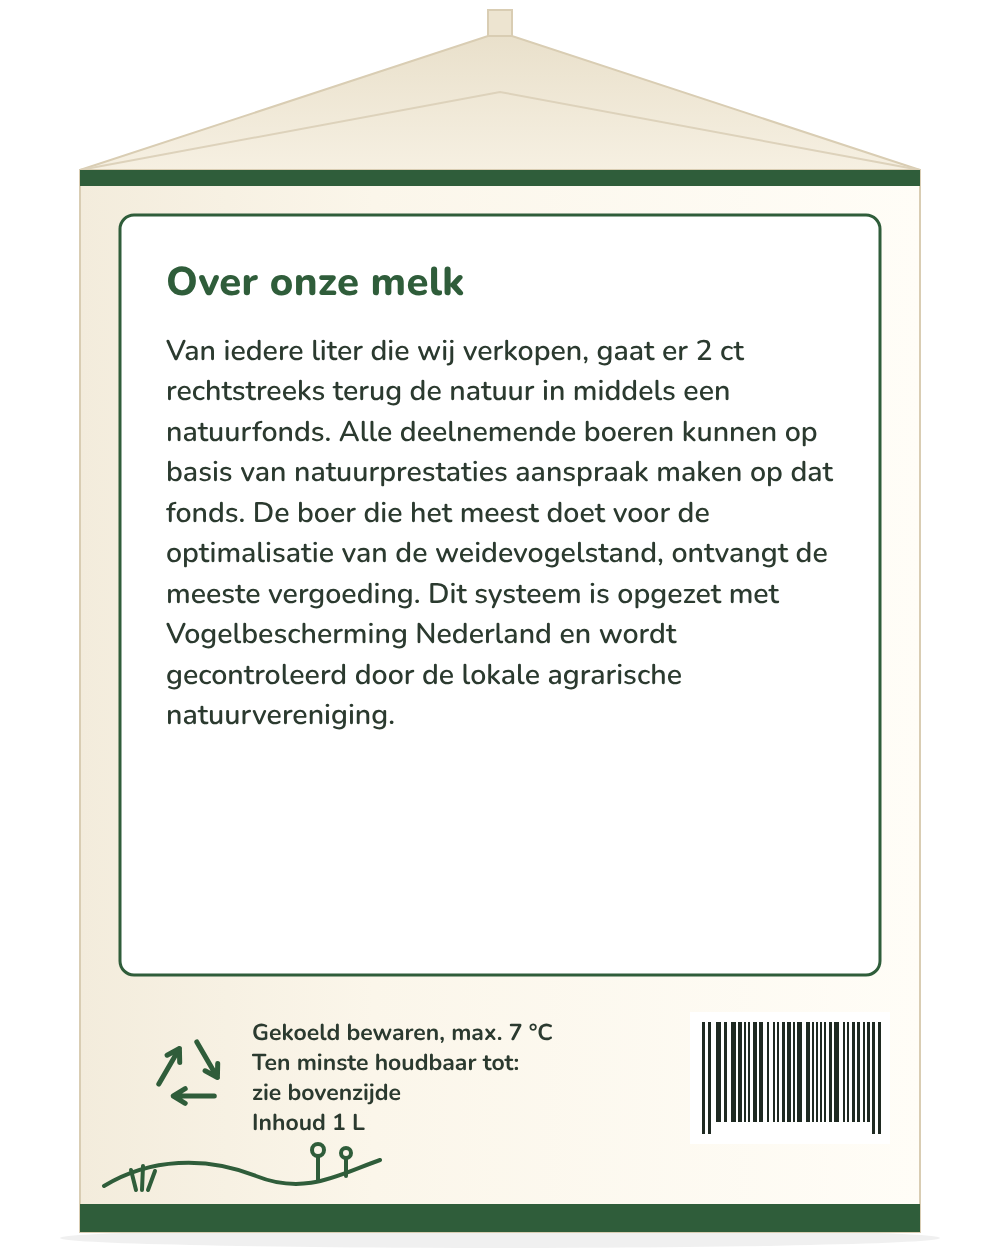
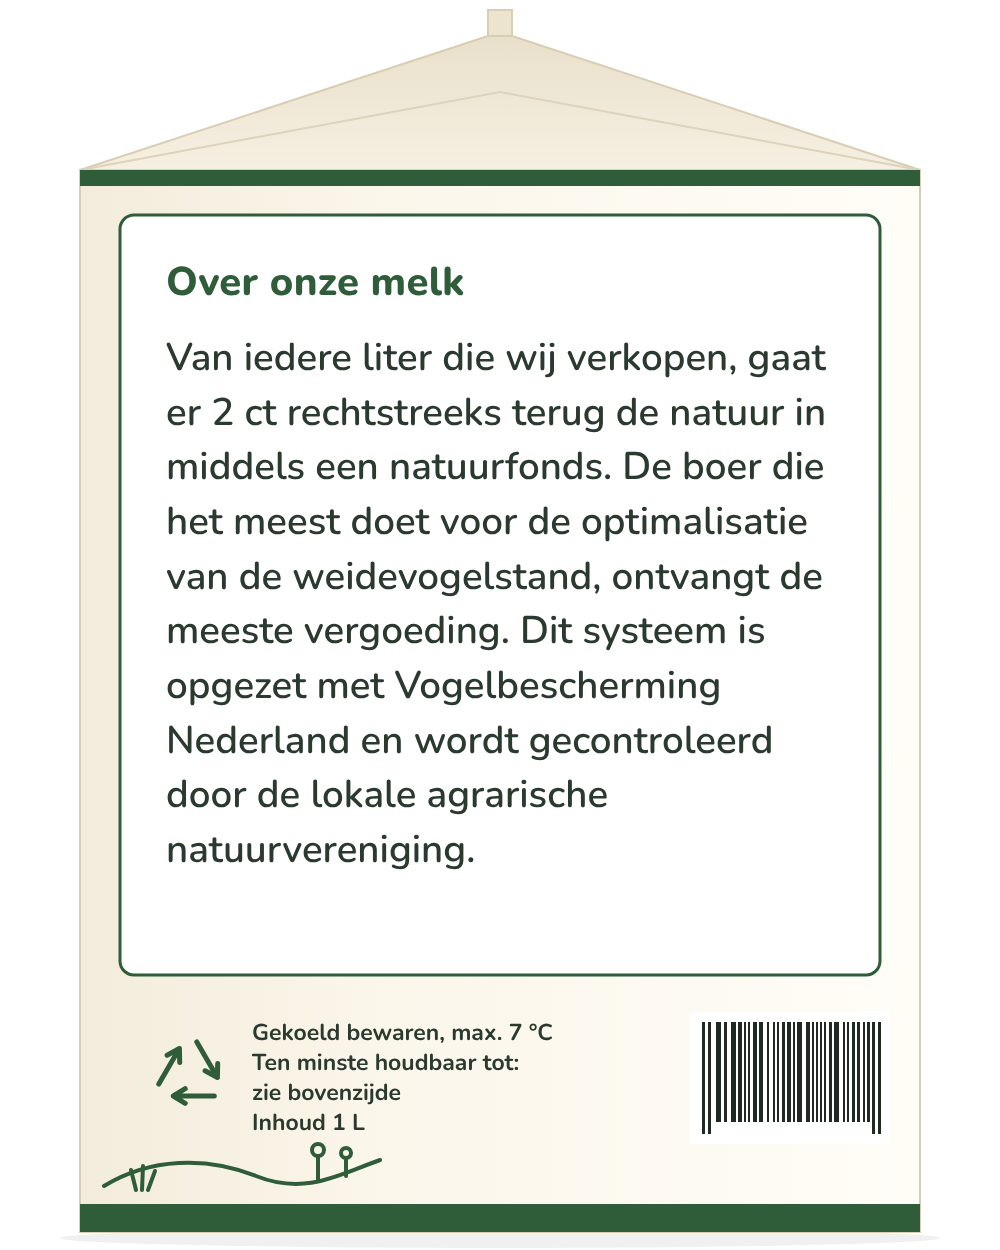
Shorter claim C, longer claim A, clearer credibility question
Claude-Session: https://claude.ai/code/session_0165mzimojSkWb7uQjiVrJAc

Changed region(s): [[0.155, 0.2496, 0.837, 0.7176]]

diff --git a/config.js b/config.js
@@ -3,9 +3,9 @@
 window.SURVEY_CONFIG = {
   endpoint: "https://script.google.com/macros/s/AKfycbwtnZf6Wy1cmb7Ny9_uDgeuQeFyTBQVj4pjlfibN_gZ0pBPPYVsA40mV6ZWWM5XkHQi7Q/exec",
   claims: {
-    A: "Onze boeren ontvangen een extra beloning voor iedere liter melk als ze extra aandacht besteden aan koe, natuur en klimaat.",
+    A: "Onze boeren ontvangen een extra beloning voor iedere liter melk als ze extra aandacht besteden aan koe, natuur en klimaat. Zo werken we samen aan een duurzamere toekomst voor onze melk.",
     B: "Jelle en Femke Hoekstra nemen deel aan ons zuivelprogramma, waardoor koe, natuur en boer met elkaar in balans zijn. Zo kan jij lekker genieten van duurzamere verse producten uit Nederland. Beter voor iedereen dus!",
-    C: "Van iedere liter die wij verkopen, gaat er 2 ct rechtstreeks terug de natuur in middels een natuurfonds. Alle deelnemende boeren kunnen op basis van natuurprestaties aanspraak maken op dat fonds. De boer die het meest doet voor de optimalisatie van de weidevogelstand, ontvangt de meeste vergoeding. Dit systeem is opgezet met Vogelbescherming Nederland en wordt gecontroleerd door de lokale agrarische natuurvereniging."
+    C: "Van iedere liter die wij verkopen, gaat er 2 ct rechtstreeks terug de natuur in middels een natuurfonds. De boer die het meest doet voor de optimalisatie van de weidevogelstand, ontvangt de meeste vergoeding. Dit systeem is opgezet met Vogelbescherming Nederland en wordt gecontroleerd door de lokale agrarische natuurvereniging."
   }
 };
 // Versie D is precies tekst B gevolgd door tekst C.

diff --git a/index.html b/index.html
@@ -112,7 +112,7 @@
           <p class="q-error">Kies een antwoord.</p>
         </fieldset>
         <fieldset class="q" id="q-v3" data-name="v3">
-          <legend><span class="q-nr">3</span><span class="q-text">Hoe geloofwaardig vindt u de tekst over deze melk?</span></legend>
+          <legend><span class="q-nr">3</span><span class="q-text">Hoe geloofwaardig vindt u de informatie over de boeren en de natuur?</span></legend>
           <div class="scale">
             <label class="scale-opt"><input type="radio" name="v3" value="1"><span>1</span></label>
             <label class="scale-opt"><input type="radio" name="v3" value="2"><span>2</span></label>
